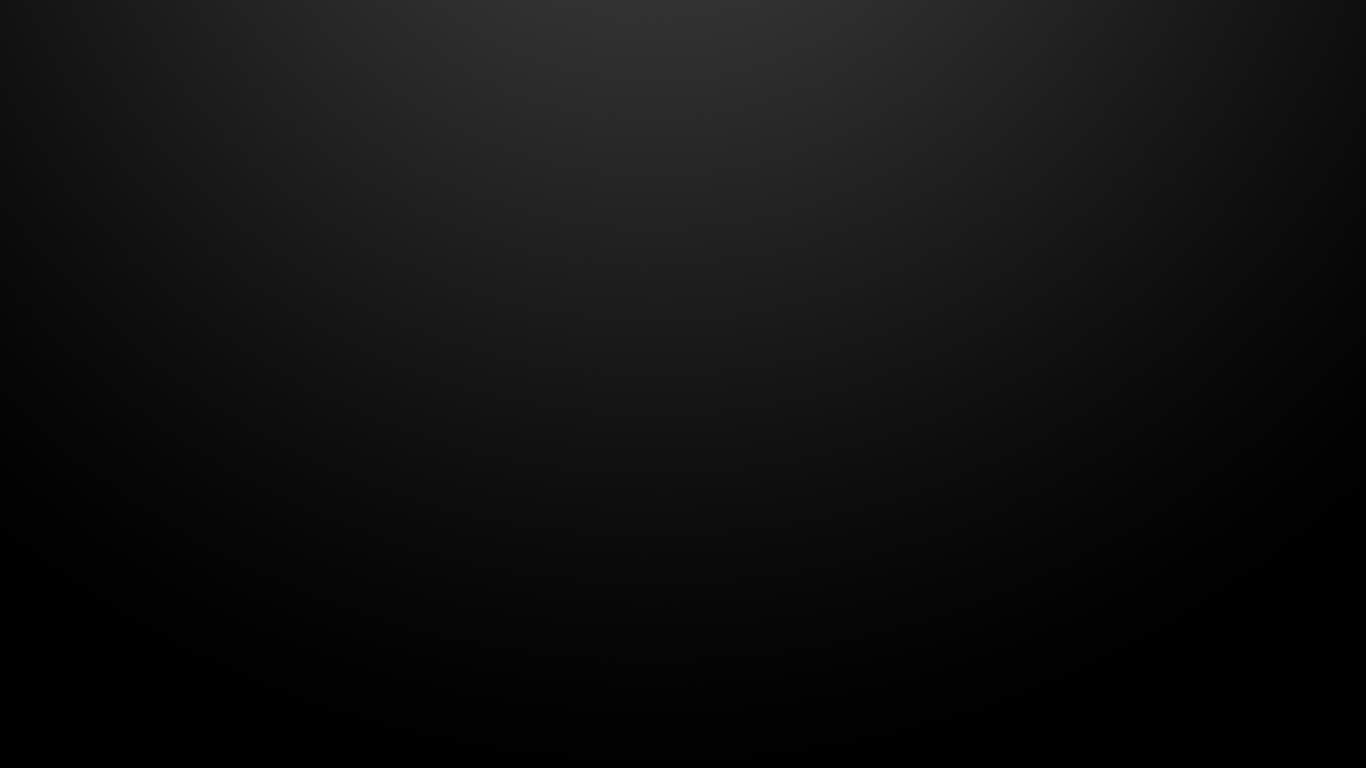
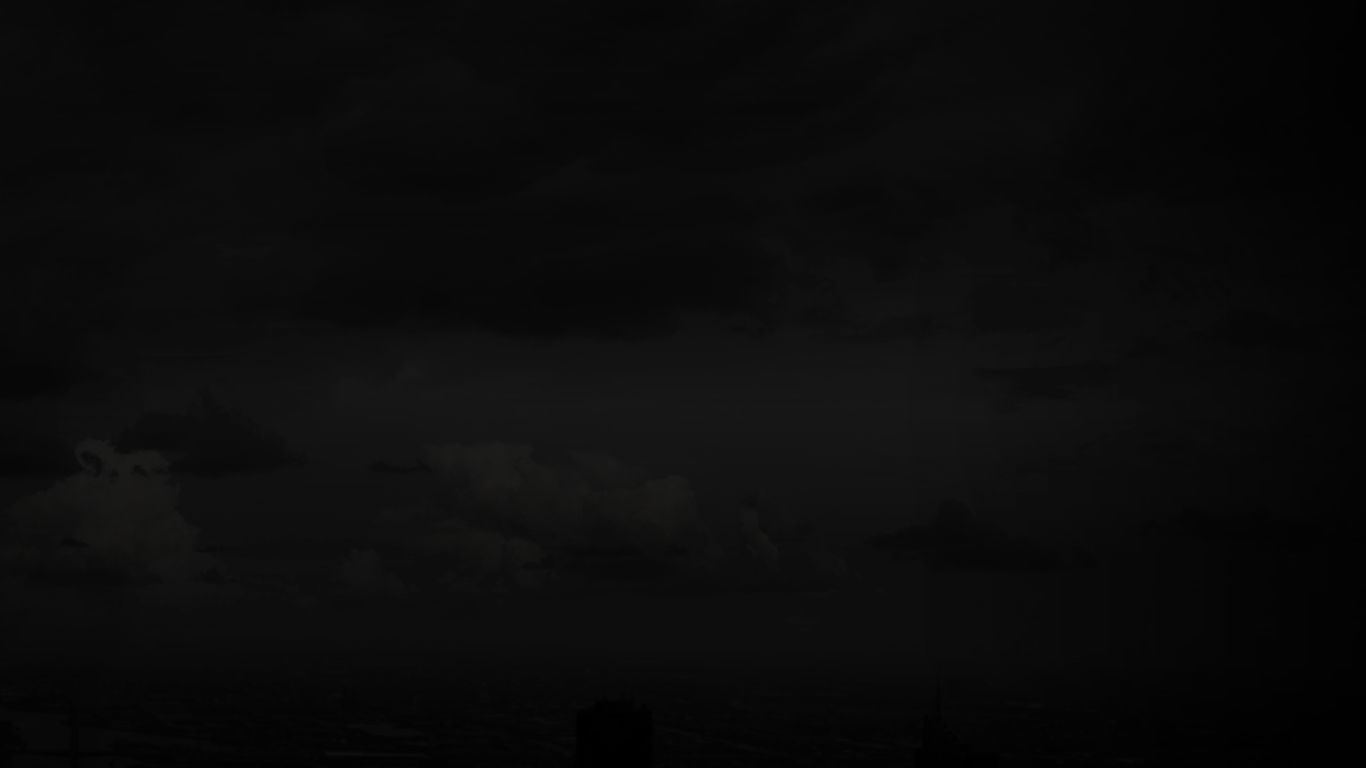
adding new homefooter

Changed region(s): [[0.1537, 0.0, 0.7994, 0.3125]]

diff --git a/src/components/HomeRegisterCard.jsx b/src/components/HomeRegisterCard.jsx
@@ -1,15 +1,26 @@
 import { Link } from "react-router-dom";
 import { Container, Row, Col, Badge, Button } from "react-bootstrap";
 
+import bgregistercard from "../assets/bgregistercard.png";
+
 export const HomeRegisterCard = () => {
   return (
-    <Container fluid>
+    <Container
+      fluid
+      style={{
+        backgroundImage: `url(${bgregistercard})`,
+        backgroundPosition: "center",
+        backgroundSize: "cover",
+        backgroundRepeat: "no-repeat",
+      }}
+      className="p-5"
+    >
       <Row>
         <Col
           xs={12}
           md={12}
           lg={12}
-          className="d-flex flex-column justify-content-center align-items-center mt-4 p-3"
+          className="d-flex flex-column justify-content-center align-items-center mt-5"
         >
           <div className="text-start">
             <Badge bg="danger">
@@ -17,7 +28,7 @@ export const HomeRegisterCard = () => {
                 <i>Join us </i>
               </strong>
             </Badge>
-            <h2 className="mt-3 mb-5">
+            <h2 className="mt-3 mb-4">
               <strong>
                 <i>Register Now! </i>
               </strong>
@@ -27,27 +38,32 @@ export const HomeRegisterCard = () => {
       </Row>
 
       <Row>
-        <Col xs={12} md={12} lg={12} className="mb-4 p-3">
+        <Col xs={12} md={12} lg={12} className="mt-4 mb-4 p-3">
           <div>
-            <p className="text-center">
+            <h6 className="text-center">
               <strong>
                 <i>
-                  Create an account now to get the best deals and discounts.
+                  Create an account now to get
                   <br />
-                  Join us and get 20% off your first purchase.
+                  20% off on your first purchase.
+                  <br />
+                  <br />
+                  <strong>
+                    <i>JOIN US TODAY!</i>
+                  </strong>
                 </i>
               </strong>
-            </p>
+            </h6>
           </div>
-          <div className="text-center">
-            <Button className="mt-4 mb-3" variant="outline-light" size="lg">
+          <div className="text-center mt-5">
+            <Button className="mt-4" variant="outline-light" size="lg">
               <Link className="text-light" to="/menu">
                 <strong>
                   <i>Register</i>
                 </strong>
               </Link>
             </Button>
-            <p className="text-center">
+            <p className="text-center mt-3">
               <strong>
                 <i>
                   Already have an account? <a href="/login">Login</a>

diff --git a/src/components/HomeFashionCard.jsx b/src/components/HomeFashionCard.jsx
@@ -1,4 +1,5 @@
 import { useState, useEffect } from "react";
+import { Link } from "react-router-dom";
 import { useFetch } from "../hooks/useFetch";
 
 import {
@@ -10,7 +11,6 @@ import {
   Carousel,
   Image,
 } from "react-bootstrap";
-import { Link } from "react-router-dom";
 
 import bgfashioncard from "../assets/bgfashioncard.png";
 
@@ -71,13 +71,15 @@ export const HomeFashionCard = () => {
               </i>
             </p>
 
-            <Button className="mt-4" variant="outline-light" size="lg">
-              <Link className="text-light" to="/menu">
-                <strong>
-                  <i>Shop Now</i>
-                </strong>
-              </Link>
-            </Button>
+            <div className="mt-5 text-center">
+              <Button variant="outline-light" size="lg">
+                <Link className="text-light" to="/menu">
+                  <strong>
+                    <i>Shop Now</i>
+                  </strong>
+                </Link>
+              </Button>
+            </div>
           </div>
         </Col>
         {/* Image Col */}

diff --git a/src/components/HomeSportCard.jsx b/src/components/HomeSportCard.jsx
@@ -11,7 +11,7 @@ import {
   Image,
 } from "react-bootstrap";
 
-import bgsportcard from "../assets/bgfashioncard.png";
+import bgsportcard from "../assets/bgsportcard.png";
 
 export const HomeSportCard = () => {
   const { data, isLoading } = useFetch(
@@ -70,13 +70,15 @@ export const HomeSportCard = () => {
               </i>
             </p>
 
-            <Button className="mt-4" variant="outline-light" size="lg">
-              <Link className="text-light" to="/menu">
-                <strong>
-                  <i>Shop Now</i>
-                </strong>
-              </Link>
-            </Button>
+            <div className="mt-5 text-center">
+              <Button variant="outline-light" size="lg">
+                <Link className="text-light" to="/menu">
+                  <strong>
+                    <i>Shop Now</i>
+                  </strong>
+                </Link>
+              </Button>
+            </div>
           </div>
         </Col>
         {/* Image Col */}

diff --git a/src/components/HomeCasualCard.jsx b/src/components/HomeCasualCard.jsx
@@ -70,13 +70,15 @@ export const HomeCasualCard = () => {
               </i>
             </p>
 
-            <Button className="mt-4" variant="outline-light" size="lg">
-              <Link className="text-light" to="/menu">
-                <strong>
-                  <i>Shop Now</i>
-                </strong>
-              </Link>
-            </Button>
+            <div className="mt-5 text-center">
+              <Button variant="outline-light" size="lg">
+                <Link className="text-light" to="/menu">
+                  <strong>
+                    <i>Shop Now</i>
+                  </strong>
+                </Link>
+              </Button>
+            </div>
           </div>
         </Col>
         {/* Image Col */}

diff --git a/src/components/OurStrengths.jsx b/src/components/OurStrengths.jsx
@@ -7,9 +7,20 @@ import membericon from "../assets/member.svg";
 import secureicon from "../assets/payment.svg";
 import bestpriceicon from "../assets/price.svg";
 
+import bgstrength from "../assets/bgstrength.png";
+
 export const OurStrengths = () => {
   return (
-    <Container fluid className="p-5">
+    <Container
+      fluid
+      style={{
+        backgroundImage: `url(${bgstrength})`,
+        backgroundPosition: "center",
+        backgroundSize: "cover",
+        backgroundRepeat: "no-repeat",
+      }}
+      className="p-5"
+    >
       <Row>
         <Col
           xs={12}

diff --git a/src/components/HomeFooter.jsx b/src/components/HomeFooter.jsx
@@ -4,10 +4,10 @@ import logoluispazdev from "../assets/logoluispazdev.png";
 
 export const HomeFooter = () => {
   return (
-    <Container fluid className="bg-black text-white text-center p-3">
+    <Container fluid className="bg-black text-white text-center p-4">
       <Row>
         <Col>
-          <div className="mt-2">
+          <div className="mt-4">
             <h6>
               <strong>
                 <i> Developed By </i>

diff --git a/src/components/HomeHeader.jsx b/src/components/HomeHeader.jsx
@@ -65,9 +65,9 @@ export const HomeHeader = () => {
               className="mt-5 ps-5 pe-5"
             >
               <i>
-                We are you best option to buy shoes online,
+                We are you best option to buy online,
                 <br />
-                We have the best prices and the best quality.
+                We have the best prices and brands.
               </i>
             </h6>
 
